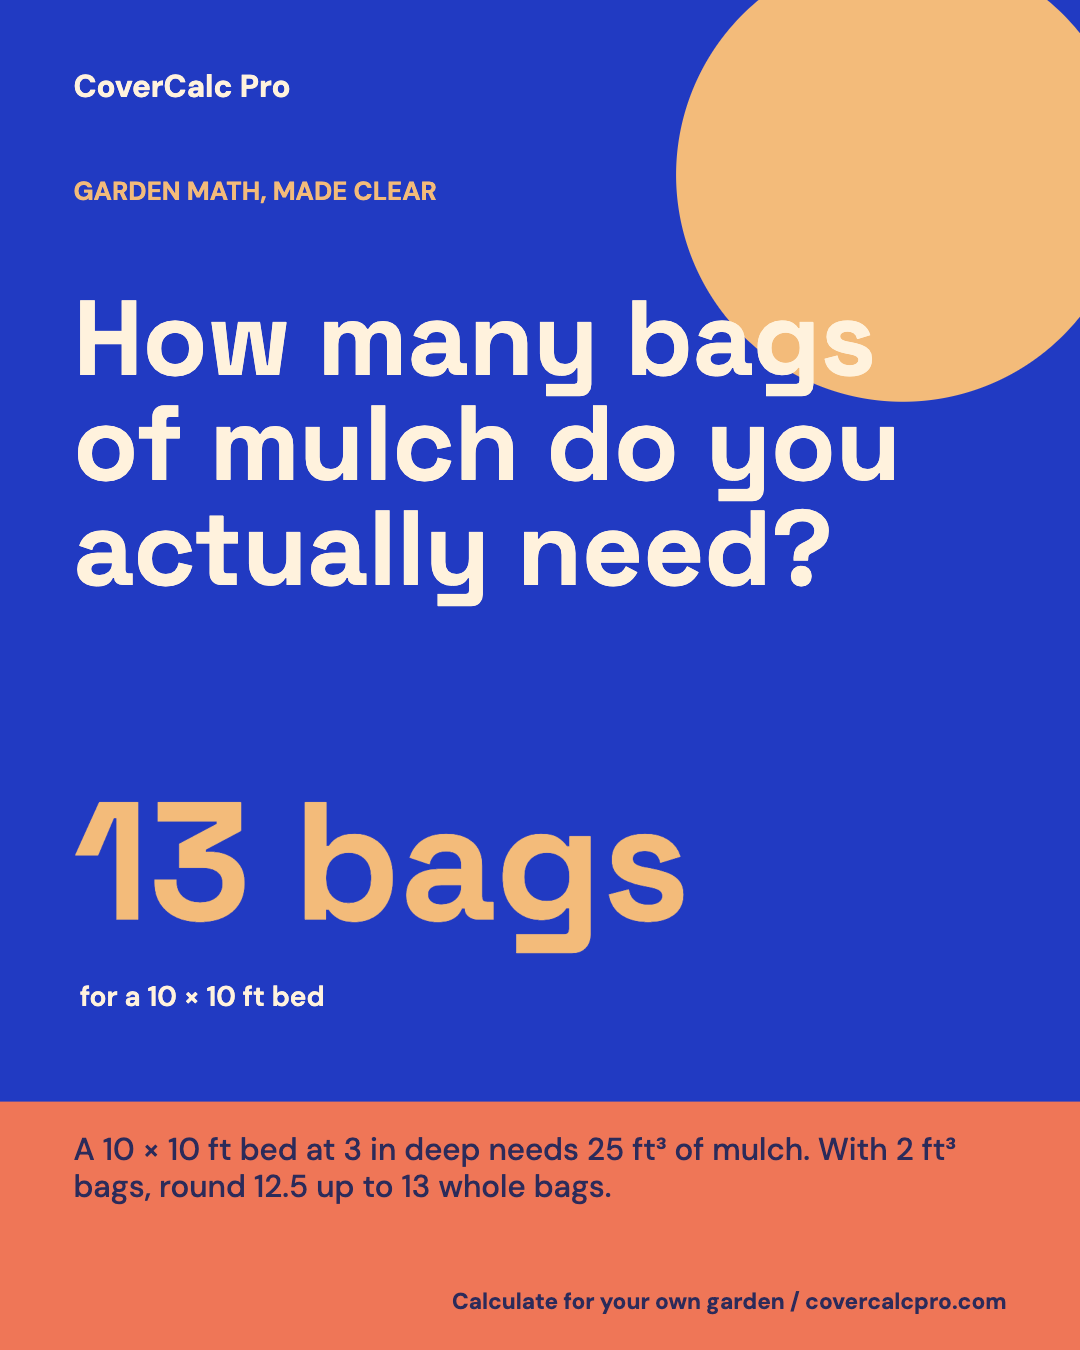
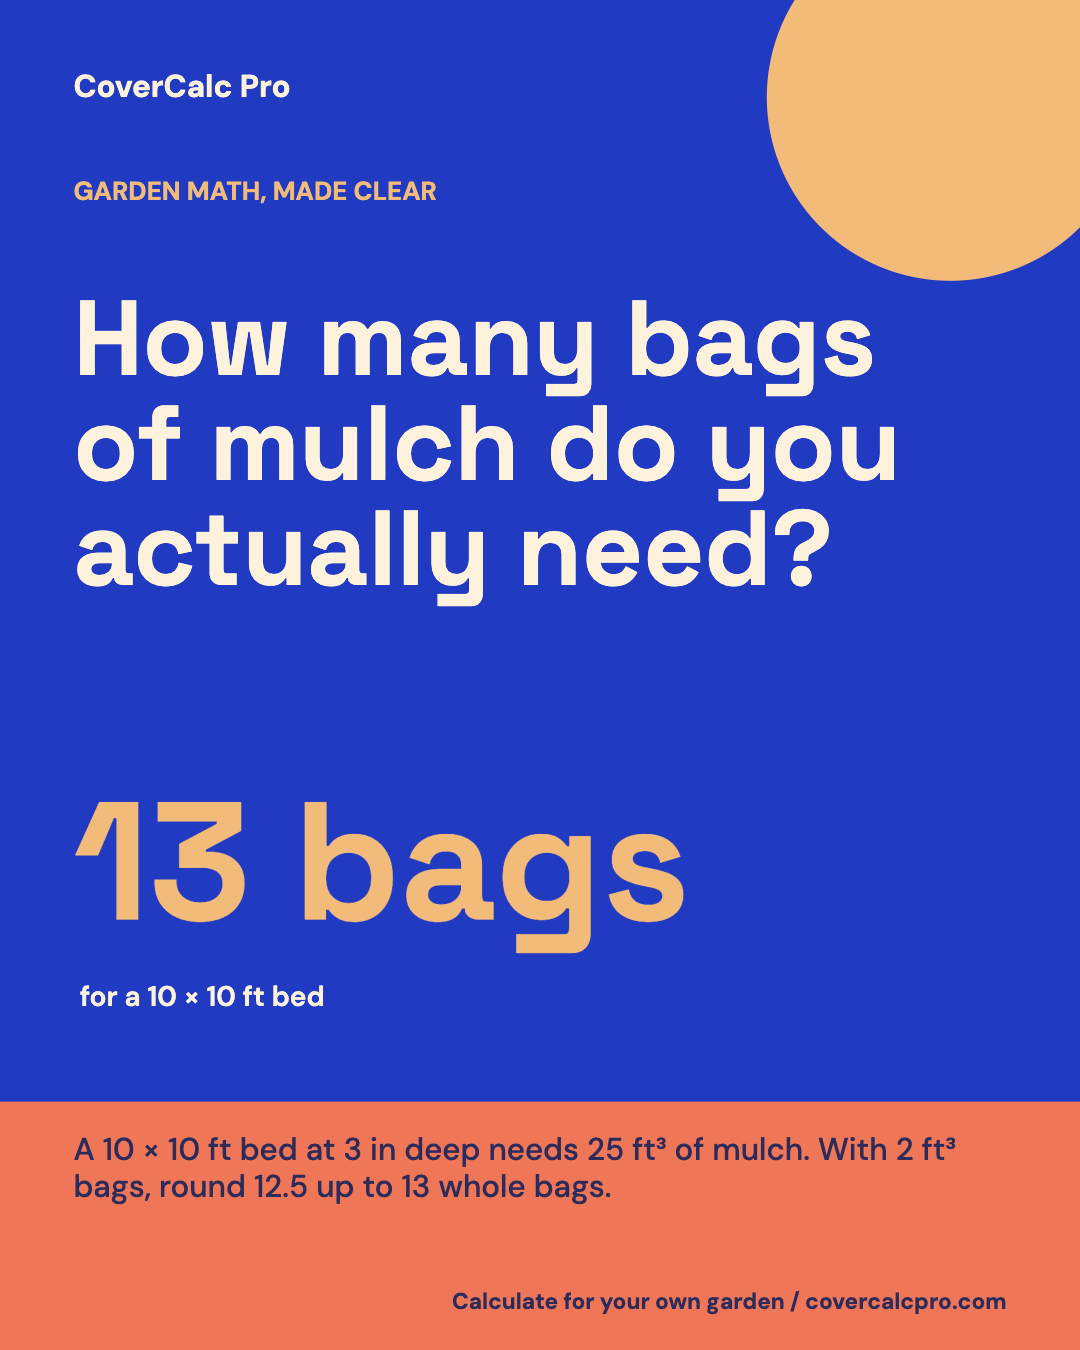
Add clear bilingual identity and Chinese image workflow

Changed region(s): [[0.6111, 0.0, 1.0, 0.3111], [0.9778, 0.0, 1.0, 0.0311]]

diff --git a/src/app.js b/src/app.js
@@ -11,12 +11,15 @@ import '@fontsource/space-grotesk/latin-700.css';
 import './styles.css';
 import { PLATFORMS, STYLE_NAMES, renderPost } from './render.js';
 import { buildPngPackage } from './export-package.js';
+import { EXAMPLES, initialLanguage, translatedExample } from './i18n.js';
 
 const STRINGS = {
   en: {
-    local: 'Made on your device. No account.', overline: 'A studio for useful images',
-    heading: 'One idea.<br><em>Four native canvases.</em>',
-    intro: 'Turn a real insight into a visual post. Change the platform or art direction without rewriting your story.',
+    productName: 'Social Post Image Maker', pageTitle: 'Social Post Image Maker — Aspectory',
+    homeLabel: 'Social Post Image Maker home', styleGroup: 'Visual style', targetGroup: 'Export target', previewRegion: 'Live preview', canvasLabel: 'Generated post preview',
+    local: 'Made on your device. No account.', overline: 'Images for the feeds where you post',
+    heading: 'One useful idea.<br><em>Four social-ready images.</em>',
+    intro: 'Turn a fact, lesson, or product insight into a visual post. Choose a style, check each platform, and download the set.',
     contentHeading: 'The message', brand: 'Brand / byline', eyebrow: 'Category', title: 'Headline',
     body: 'Supporting insight', figure: 'Key figure', figureLabel: 'Figure label', cta: 'Footer / next step',
     url: 'Source / website', artHeading: 'Art direction', field: 'Field notes',
@@ -33,9 +36,11 @@ const STRINGS = {
     failed: 'Export failed. Try another browser.', shortened: 'Some text was shortened in the image. Edit the copy or choose a taller canvas.'
   },
   zh: {
-    local: '本机制作，无需账号', overline: '做真正有用的图片',
-    heading: '一个想法，<br><em>四种平台版式。</em>',
-    intro: '把真实见解做成图片。换平台、换风格时会重新排版，不只是裁切。',
+    productName: '出海配图工坊', pageTitle: '出海配图工坊 — Aspectory',
+    homeLabel: '出海配图工坊首页', styleGroup: '视觉风格', targetGroup: '导出平台', previewRegion: '实时预览', canvasLabel: '生成的帖子图片预览',
+    local: '本机制作，无需账号', overline: 'Pinterest · Instagram · Lemon8 · Facebook',
+    heading: '一份内容，<br><em>四个平台都有好图。</em>',
+    intro: '把真实观点、经验或产品信息做成海外社媒图片。选择风格，逐平台检查，一次打包下载。',
     contentHeading: '内容', brand: '品牌／署名', eyebrow: '栏目分类', title: '标题',
     body: '补充说明', figure: '核心数字', figureLabel: '数字说明', cta: '底部引导语',
     url: '来源／网站', artHeading: '视觉风格', field: '田野笔记',
@@ -61,7 +66,12 @@ const saved = (() => { try { return JSON.parse(localStorage.getItem('aspectory-d
 for (const id of fields) if (typeof saved[id] === 'string') document.getElementById(id).value = saved[id];
 if (saved.platform && PLATFORMS[saved.platform]) state.platform = saved.platform;
 if (saved.style && STYLE_NAMES[saved.style]) state.style = saved.style;
-if (saved.lang === 'zh') state.lang = 'zh';
+state.lang = initialLanguage(new URLSearchParams(location.search).get('lang'), saved.lang, navigator.language);
+for (const from of ['en', 'zh']) {
+  const current = Object.fromEntries(fields.map(id => [id, document.getElementById(id).value]));
+  const example = translatedExample(current, from, state.lang);
+  if (example) { for (const id of fields) document.getElementById(id).value = example[id]; break; }
+}
 
 function content() { return Object.fromEntries(fields.map(id => [id, document.getElementById(id).value])); }
 function save() {
@@ -74,6 +84,7 @@ function setStatus(message = '', isError = false) {
 }
 function translate() {
   document.documentElement.lang = state.lang === 'zh' ? 'zh-CN' : 'en';
+  document.title = STRINGS[state.lang].pageTitle;
   for (const node of document.querySelectorAll('[data-i18n]')) {
     const value = STRINGS[state.lang][node.dataset.i18n];
     if (node.dataset.i18n === 'heading') node.innerHTML = value;
@@ -81,6 +92,11 @@ function translate() {
   }
   document.querySelector('#language').textContent = state.lang === 'en' ? '中文' : 'English';
   document.querySelector('#language').setAttribute('aria-label', state.lang === 'en' ? '切换到中文' : 'Switch to English');
+  document.querySelector('#home-link').setAttribute('aria-label', STRINGS[state.lang].homeLabel);
+  document.querySelector('.style-grid').setAttribute('aria-label', STRINGS[state.lang].styleGroup);
+  document.querySelector('.platforms').setAttribute('aria-label', STRINGS[state.lang].targetGroup);
+  document.querySelector('.preview-column').setAttribute('aria-label', STRINGS[state.lang].previewRegion);
+  canvas.setAttribute('aria-label', STRINGS[state.lang].canvasLabel);
   paint();
 }
 function select(kind, value) {
@@ -151,7 +167,16 @@ async function downloadAll() {
 for (const id of fields) document.getElementById(id).addEventListener('input', () => { paint(); save(); });
 for (const button of document.querySelectorAll('.platform')) button.addEventListener('click', () => select('platform', button.dataset.platform));
 for (const button of document.querySelectorAll('.style-option')) button.addEventListener('click', () => select('style', button.dataset.style));
-document.querySelector('#language').addEventListener('click', () => { state.lang = state.lang === 'en' ? 'zh' : 'en'; translate(); save(); });
+document.querySelector('#language').addEventListener('click', () => {
+  const previous = state.lang;
+  state.lang = previous === 'en' ? 'zh' : 'en';
+  const example = translatedExample(content(), previous, state.lang);
+  if (example) for (const id of fields) document.getElementById(id).value = example[id];
+  const url = new URL(location.href);
+  url.searchParams.set('lang', state.lang);
+  history.replaceState(null, '', url);
+  translate(); save();
+});
 document.querySelector('#png').addEventListener('click', () => download('image/png'));
 document.querySelector('#jpeg').addEventListener('click', () => download('image/jpeg'));
 document.querySelector('#all').addEventListener('click', downloadAll);

diff --git a/index.html b/index.html
@@ -4,18 +4,18 @@
     <meta charset="UTF-8" />
     <meta name="viewport" content="width=device-width, initial-scale=1" />
     <meta name="theme-color" content="#eae7df" />
-    <meta name="description" content="Aspectory is a local-first visual post maker for Pinterest, Instagram, Lemon8 and Facebook." />
-    <title>Aspectory — visual posts, made for the place they go</title>
+    <meta name="description" content="Social Post Image Maker / 出海配图工坊: create locally composed images for Pinterest, Instagram, Lemon8 and Facebook in English or Chinese." />
+    <title>Social Post Image Maker — Aspectory</title>
   </head>
   <body>
     <div id="app">
       <header class="topbar">
-        <a class="brand" href="./" aria-label="Aspectory home"><span class="brand-mark" aria-hidden="true"><i></i><i></i><i></i></span><span>aspectory</span></a>
+        <a id="home-link" class="brand" href="./" aria-label="Social Post Image Maker home"><span class="brand-mark" aria-hidden="true"><i></i><i></i><i></i></span><span class="brand-name" data-i18n="productName">Social Post Image Maker</span></a>
         <div class="topbar-right"><span class="local-note" data-i18n="local">Made on your device. No account.</span><button id="language" class="language" type="button" aria-label="Switch language">中文</button></div>
       </header>
       <main class="workspace">
         <section class="editor" aria-labelledby="main-title">
-          <div class="intro"><p class="overline" data-i18n="overline">A studio for useful images</p><h1 id="main-title" data-i18n="heading">One idea.<br><em>Four native canvases.</em></h1><p class="intro-copy" data-i18n="intro">Turn a real insight into a visual post. Change the platform or art direction without rewriting your story.</p></div>
+          <div class="intro"><p class="overline" data-i18n="overline">Images for the feeds where you post</p><h1 id="main-title" data-i18n="heading">One useful idea.<br><em>Four social-ready images.</em></h1><p class="intro-copy" data-i18n="intro">Turn a fact, lesson, or product insight into a visual post. Choose a style, check each platform, and download the set.</p></div>
           <div class="step-title"><span>01</span><h2 data-i18n="contentHeading">The message</h2></div>
           <div class="fields">
             <label><span data-i18n="brand">Brand / byline</span><input id="brand" maxlength="42" value="CoverCalc Pro" /></label>

diff --git a/src/render.js b/src/render.js
@@ -24,14 +24,17 @@ function font(size, family = 'sans', weight = 400) {
 }
 
 export function wrapLines(ctx, text, maxWidth) {
-  const tokens = String(text || '').match(/[\u3400-\u9fff]|[^\s\u3400-\u9fff]+|\s+/g) || [];
+  const tokens = String(text || '').match(/[\u3400-\u9fff]|[，。！？；：、（）【】《》]|[^\s\u3400-\u9fff，。！？；：、（）【】《》]+|\s+/g) || [];
   const lines = [];
   let line = '';
   let spaced = false;
   for (const word of tokens) {
     if (/^\s+$/.test(word)) { spaced = true; continue; }
     const next = line + (line && spaced ? ' ' : '') + word;
-    if (line && ctx.measureText(next).width > maxWidth) { lines.push(line); line = word; }
+    if (line && ctx.measureText(next).width > maxWidth) {
+      if (/^[，。！？；：、）】》]/.test(word)) line = next;
+      else { lines.push(line); line = word; }
+    }
     else line = next;
     spaced = false;
   }
@@ -166,7 +169,7 @@ function data(ctx, c, H, warnings) {
 function poster(ctx, c, H, warnings) {
   const compact = H < 1200, square = H <= 1050;
   ctx.fillStyle = '#213ac2'; ctx.fillRect(0, 0, 1000, H);
-  ctx.fillStyle = '#f3bb7a'; ctx.beginPath(); ctx.arc(836, 162, 210, 0, Math.PI * 2); ctx.fill();
+  ctx.fillStyle = '#f3bb7a'; ctx.beginPath(); ctx.arc(880, 90, 170, 0, Math.PI * 2); ctx.fill();
   ctx.fillStyle = '#ef7657'; ctx.fillRect(0, H - 230, 1000, 230);
   textBlock(ctx, c.brand, { x: 68, y: 68, width: 700, size: 29, maxLines: 1, weight: 700, color: '#fff2dd' }, warnings);
   textBlock(ctx, c.eyebrow.toUpperCase(), { x: 68, y: 167, width: 780, size: 24, maxLines: 1, weight: 700, color: '#f3bb7a' }, warnings);

diff --git a/src/i18n.js b/src/i18n.js
@@ -1,0 +1,27 @@
+export const EXAMPLES = Object.freeze({
+  en: {
+    brand: 'CoverCalc Pro', eyebrow: 'Garden math, made clear',
+    title: 'How many bags of mulch do you actually need?',
+    body: 'A 10 × 10 ft bed at 3 in deep needs 25 ft³ of mulch. With 2 ft³ bags, round 12.5 up to 13 whole bags.',
+    figure: '13 bags', figureLabel: 'for a 10 × 10 ft bed',
+    cta: 'Calculate for your own garden', url: 'covercalcpro.com'
+  },
+  zh: {
+    brand: 'CoverCalc Pro', eyebrow: '园艺用量小算例',
+    title: '覆盖物要买多少袋？',
+    body: '花坛长宽各 10 英尺，铺 3 英寸厚，需要 25 立方英尺覆盖物。每袋 2 立方英尺，12.5 袋要向上取整。',
+    figure: '13 袋', figureLabel: '每袋 2 立方英尺',
+    cta: '测量面积，再算购买量', url: 'covercalcpro.com'
+  }
+});
+
+export function initialLanguage(urlLang, savedLang, browserLang) {
+  if (urlLang === 'zh' || urlLang === 'en') return urlLang;
+  if (savedLang === 'zh' || savedLang === 'en') return savedLang;
+  return /^zh(?:-|$)/i.test(browserLang || '') ? 'zh' : 'en';
+}
+
+export function translatedExample(current, from, to) {
+  if (!EXAMPLES[from] || !EXAMPLES[to]) return null;
+  return Object.keys(EXAMPLES[from]).every(key => current[key] === EXAMPLES[from][key]) ? EXAMPLES[to] : null;
+}

diff --git a/tests/i18n.test.js b/tests/i18n.test.js
@@ -1,0 +1,16 @@
+import test from 'node:test';
+import assert from 'node:assert/strict';
+import { EXAMPLES, initialLanguage, translatedExample } from '../src/i18n.js';
+
+test('explicit share language wins, then saved choice, then browser locale', () => {
+  assert.equal(initialLanguage('zh', 'en', 'en-US'), 'zh');
+  assert.equal(initialLanguage(null, 'en', 'zh-CN'), 'en');
+  assert.equal(initialLanguage(null, null, 'zh-TW'), 'zh');
+  assert.equal(initialLanguage(null, null, 'en-US'), 'en');
+});
+
+test('switching languages translates only the untouched sample', () => {
+  assert.deepEqual(translatedExample(EXAMPLES.en, 'en', 'zh'), EXAMPLES.zh);
+  assert.deepEqual(translatedExample(EXAMPLES.zh, 'zh', 'en'), EXAMPLES.en);
+  assert.equal(translatedExample({ ...EXAMPLES.en, title: 'My own headline' }, 'en', 'zh'), null);
+});

diff --git a/tests/render.test.js b/tests/render.test.js
@@ -21,6 +21,7 @@ test('continuous Chinese copy can wrap without inserted spaces', () => {
   const ctx = { measureText: value => ({ width: value.length * 10 }) };
   assert.deepEqual(wrapLines(ctx, '花园需要多少袋覆盖物', 40), ['花园需要', '多少袋覆', '盖物']);
   assert.deepEqual(wrapLines(ctx, '10×10 英尺的花坛需要多少袋', 80), ['10×10 英尺', '的花坛需要多少袋']);
+  assert.ok(wrapLines(ctx, '花坛长宽各10英尺，12.5袋要向上取整。', 90).every(line => !/^[，。！？；：、]/.test(line)));
 });
 
 test('content normalization caps input and preserves factual characters', () => {

diff --git a/src/styles.css b/src/styles.css
@@ -2,3 +2,6 @@
 .export-all { width: 100%; min-height: 44px; margin-top: 9px; border: 1px solid #235a46; border-radius: 3px; background: transparent; color: #235a46; font-size: 14px; font-weight: 700; }
 .export-all:hover { background: #e0e9df; }
 .export-all:disabled { cursor: progress; opacity: .55; }
+.brand-name { font-size: clamp(16px, 1.8vw, 24px); letter-spacing: -.045em; white-space: nowrap; }
+@media (max-width: 460px) { .brand-name { font-size: 16px; } }
+@media (max-width: 460px) { html[lang="zh-CN"] .intro h1 { font-size: 36px; } }

diff --git a/README.md b/README.md
@@ -1,10 +1,10 @@
-# Aspectory
+# Social Post Image Maker
 
-**One useful idea. Four platform-ready image layouts.**
+**Aspectory · One useful idea. Four platform-ready image layouts.**
 
-Aspectory is a free, local-first visual post maker for people who want to turn a *real fact, lesson, comparison, or product insight* into an image worth saving. Write once, choose a visual direction, and export a newly composed image for Pinterest, Instagram, Lemon8, or Facebook. It is an image composer, not an auto-posting bot or a promise of reach.
+Social Post Image Maker (Aspectory) is a free, local-first tool for turning a *real fact, lesson, comparison, or product insight* into an image worth saving. Write once, choose a visual direction, and export a newly composed image for Pinterest, Instagram, Lemon8, or Facebook. It is an image composer, not an auto-posting bot or a promise of reach.
 
-**[Try the live studio](https://lydiatools.github.io/aspectory/)** · [中文说明](README.zh-CN.md)
+**[Try the live studio](https://lydiatools.github.io/aspectory/?lang=en)** · **[中文体验](https://lydiatools.github.io/aspectory/?lang=zh)** · [中文说明](README.zh-CN.md)
 
 <img src="docs/screenshots/pinterest-field-notes.png" alt="Aspectory Field notes output: a sample mulch calculation in a 1000 by 1500 Pinterest image" width="230"> <img src="docs/screenshots/instagram-bright-poster.png" alt="Aspectory Bright poster output for Instagram" width="230"> <img src="docs/screenshots/lemon8-photo-story.png" alt="Aspectory Photo story output for Lemon8 using a CoverCalc Pro concept image" width="230"> <img src="docs/screenshots/facebook-data-sheet.png" alt="Aspectory Data sheet output for Facebook" width="230">
 
@@ -15,6 +15,7 @@ Aspectory is a free, local-first visual post maker for people who want to turn a
 - **Real image files:** Live Canvas preview, individual PNG/JPEG exports, or one ZIP containing four separately rendered platform PNGs in the chosen style.
 - **Your own photo, if you want one:** Photo story can use a local PNG, JPEG, or WebP. Without a photo it uses a clearly graphic background.
 - **English and Chinese interface:** Switch languages without deleting the copy you are writing. The canvas accepts English or Chinese text.
+- **A Chinese starting point:** Chinese browsers open with a Chinese interface and sample; a shareable `?lang=zh` link opens the Chinese version. Language switching changes only the untouched sample and preserves your own draft.
 - **Local-first by design:** No account, backend, API key, upload, analytics script, or automatic publishing. Your draft is saved in this browser's local storage; the optional photo remains in memory for the current session. The Latin font files are bundled with the site.
 
 ## Try it

diff --git a/docs/screenshots/PROVENANCE.md b/docs/screenshots/PROVENANCE.md
@@ -1,10 +1,12 @@
 # Output screenshot provenance
 
-The four PNGs here were exported from Aspectory in a local browser on 2026-10-08, using the repository's CoverCalc Pro sample copy. Their purpose is to show the actual image layouts and export sizes; they are not engagement or conversion evidence.
+The PNGs here were exported from Aspectory in a local browser on 2026-10-08, using the repository's CoverCalc Pro sample copy. Their purpose is to show the actual image layouts and export sizes; they are not engagement or conversion evidence.
 
 - `pinterest-field-notes.png`: Pinterest preset and Field notes style, no uploaded image.
 - `instagram-bright-poster.png`: Instagram preset and Bright poster style, no uploaded image.
 - `facebook-data-sheet.png`: Facebook preset and Data sheet style, no uploaded image.
 - `lemon8-photo-story.png`: Lemon8 preset and Photo story style, using the CoverCalc Pro garden refresh concept image from the owner's CoverCalc Pro website assets (`garden-sample-after.webp`). This image illustrates a design direction, not a completed customer job or verified garden result.
+- `pinterest-field-notes-zh.png`: Chinese sample copy, Pinterest preset and Field notes style, no uploaded image.
+- `pinterest-bright-poster-zh.png`: Chinese sample copy, Pinterest preset and Bright poster style, no uploaded image.
 
 The 13-bag number is an illustrative calculation with explicit inputs in the README, not a claim about the pictured garden. The screenshot and CoverCalc Pro imagery are provided as project examples and are not automatically covered by the source-code MIT license.
